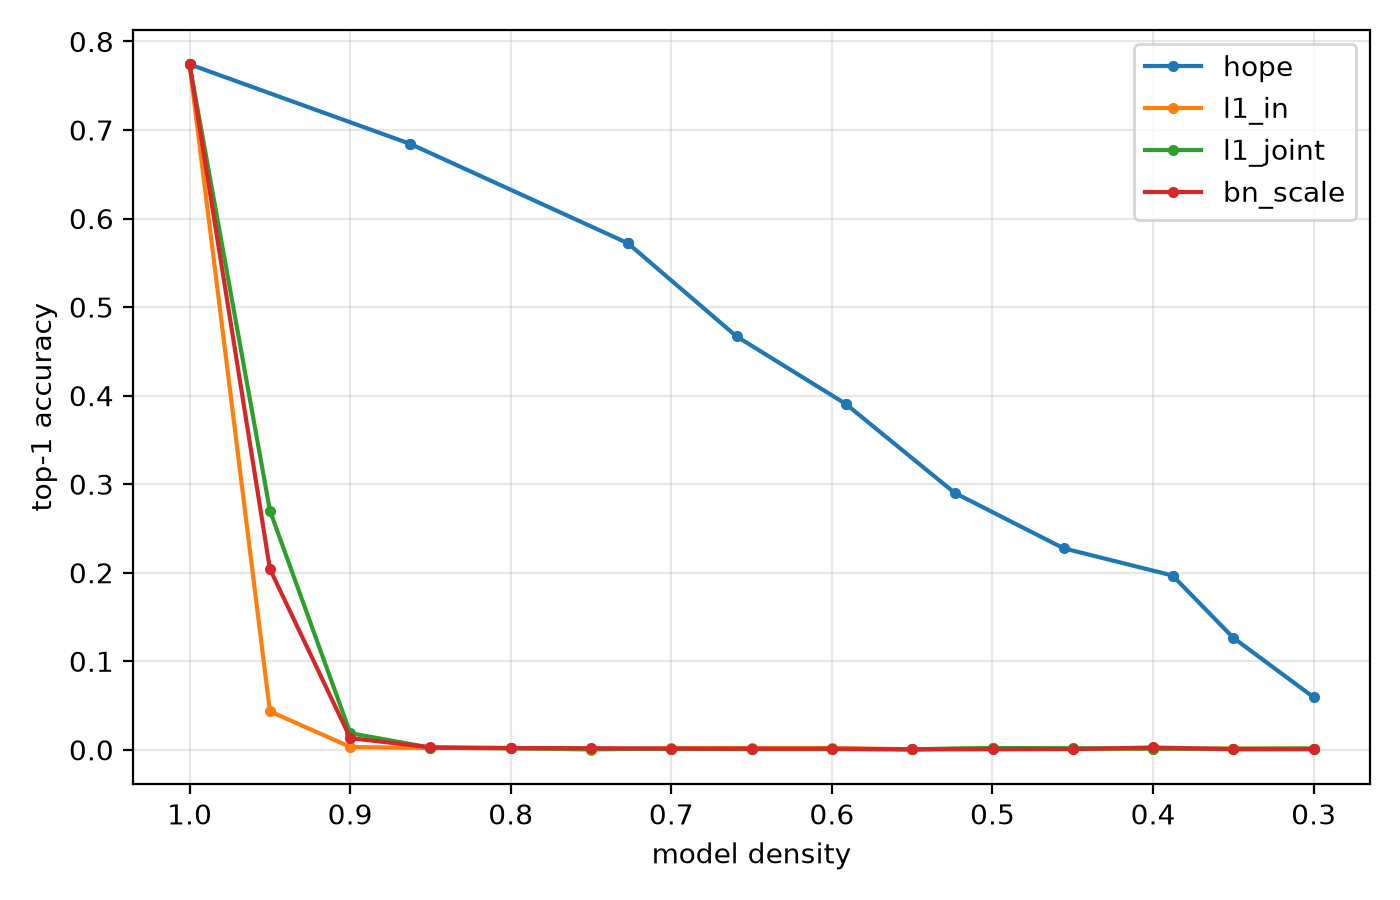
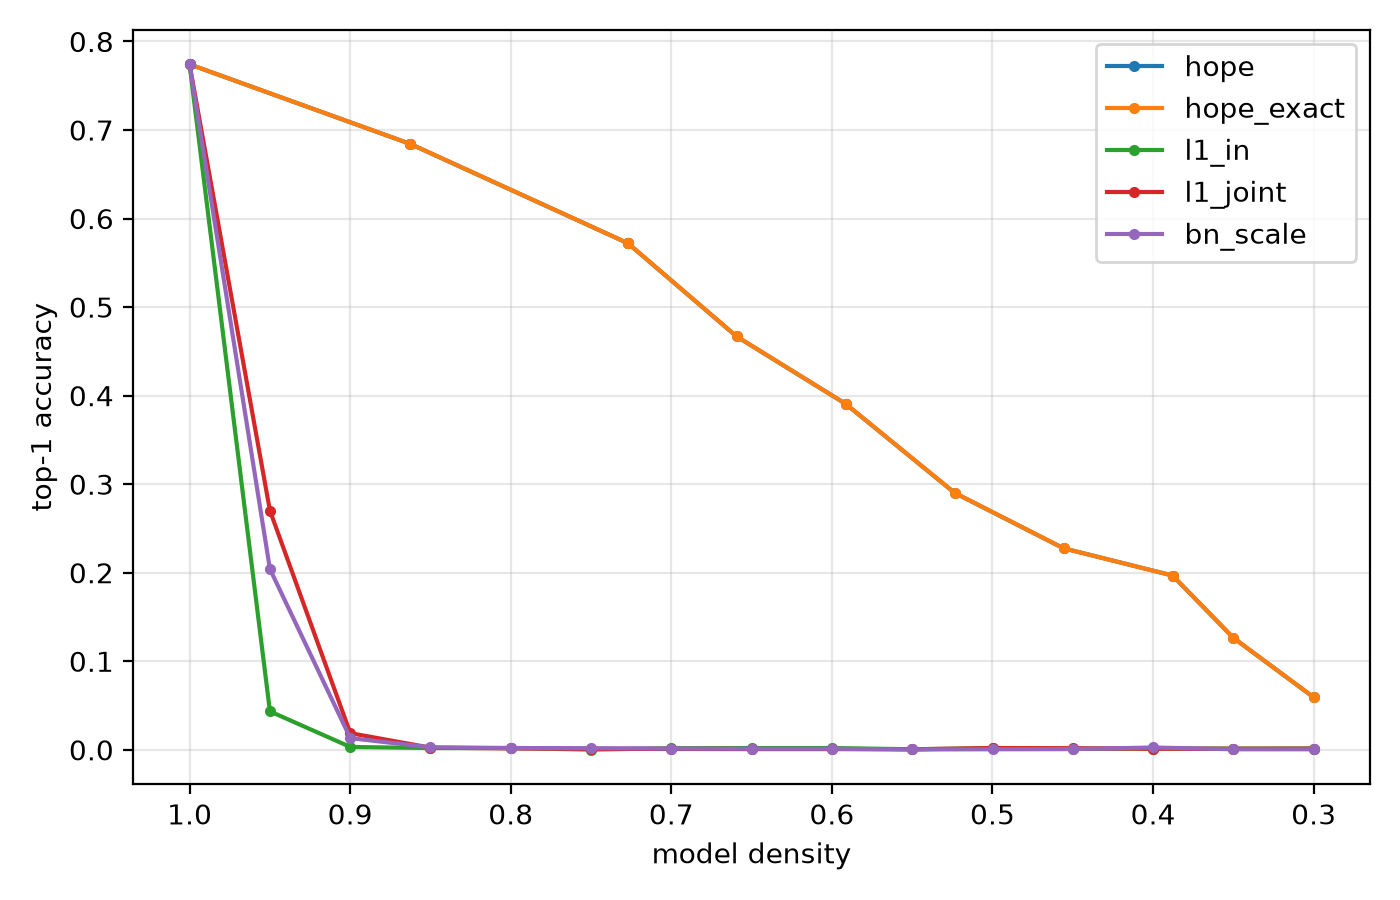
vectorize exact kernel with owens t

diff --git a/hope/kernels.py b/hope/kernels.py
@@ -1,7 +1,7 @@
 """Closed-form ReLU kernels under the Gaussian surrogate. Paper App E."""
 
 import numpy as np
-from scipy.special import ndtr
+from scipy.special import ndtr, owens_t
 from scipy.stats import multivariate_normal
 
 TINY = 1e-12
@@ -106,6 +106,60 @@ def cross_kernel_exact(gamma_i, beta_i, gamma_j, beta_j, rho_hat):
     cdf2 = multivariate_normal.cdf([ci, cj], mean=[0.0, 0.0], cov=[[1.0, r], [r, 1.0]])
     inner = (ci * cj + r) * cdf2 + ci * _phi(cj) * ndtr(cij) + cj * _phi(ci) * ndtr(cji) + s2 * phi2
     return gi * gj * inner
+
+
+def bvn_cdf(h, k, rho):
+    """Standard bivariate normal P(X <= h, Y <= k) via Owen's T, vectorized."""
+    h, k, rho = np.broadcast_arrays(
+        np.asarray(h, dtype=np.float64), np.asarray(k, dtype=np.float64), np.asarray(rho, dtype=np.float64)
+    )
+    h = np.where(np.abs(h) < 1e-9, 1e-9, h)
+    k = np.where(np.abs(k) < 1e-9, 1e-9, k)
+    rho = np.clip(rho, -1.0 + 1e-12, 1.0 - 1e-12)
+    s = np.sqrt(1.0 - rho * rho)
+    a_h = (k - rho * h) / (h * s)
+    a_k = (h - rho * k) / (k * s)
+    beta = np.where(h * k < 0, 0.5, 0.0)
+    return 0.5 * (ndtr(h) + ndtr(k)) - owens_t(h, a_h) - owens_t(k, a_k) - beta
+
+
+def cross_kernel_exact_batch(gamma_i, beta_i, gamma_j, beta_j, rho_hat):
+    """Vectorized exact biased cross-kernel, eq (83), with degenerate and dead limits."""
+    gi, gj, bi, bj, r = np.broadcast_arrays(
+        np.abs(np.asarray(gamma_i, dtype=np.float64)),
+        np.abs(np.asarray(gamma_j, dtype=np.float64)),
+        np.asarray(beta_i, dtype=np.float64),
+        np.asarray(beta_j, dtype=np.float64),
+        np.clip(np.asarray(rho_hat, dtype=np.float64), -1.0, 1.0),
+    )
+    gis = np.maximum(gi, TINY)
+    gjs = np.maximum(gj, TINY)
+    ci, cj = bi / gis, bj / gjs
+
+    rm = np.clip(r, -DEGENERATE_RHO, DEGENERATE_RHO)
+    s2 = 1.0 - rm * rm
+    s = np.sqrt(s2)
+    cij = (ci - rm * cj) / s
+    cji = (cj - rm * ci) / s
+    phi2 = np.exp(-(ci * ci - 2.0 * rm * ci * cj + cj * cj) / (2.0 * s2)) / (2.0 * np.pi * s)
+    main = gi * gj * (
+        (ci * cj + rm) * bvn_cdf(ci, cj, rm)
+        + ci * _phi(cj) * ndtr(cij)
+        + cj * _phi(ci) * ndtr(cji)
+        + s2 * phi2
+    )
+
+    m = np.maximum(-ci, -cj)
+    pos = gi * gj * (ndtr(-m) + m * _phi(m)) + (gi * bj + gj * bi) * _phi(m) + bi * bj * ndtr(-m)
+    lo, hi = -ci, cj
+    e0 = ndtr(hi) - ndtr(lo)
+    e1 = _phi(lo) - _phi(hi)
+    e2 = (ndtr(hi) - hi * _phi(hi)) - (ndtr(lo) - lo * _phi(lo))
+    neg = np.where(hi > lo, -gi * gj * e2 + (gi * bj - gj * bi) * e1 + bi * bj * e0, 0.0)
+
+    out = np.where(r >= DEGENERATE_RHO, pos, np.where(r <= -DEGENERATE_RHO, neg, main))
+    dead = (gi <= TINY) | (gj <= TINY)
+    return np.where(dead, relu_mean(gi, bi) * relu_mean(gj, bj), out)
 
 
 def cross_kernel(gamma_i, beta_i, gamma_j, beta_j, rho_hat, k_ii=None, k_jj=None, mode="zero_bias"):

diff --git a/tests/test_kernels.py b/tests/test_kernels.py
@@ -4,7 +4,9 @@ import numpy as np
 import pytest
 
 from hope.kernels import (
+    bvn_cdf,
     cross_kernel_exact,
+    cross_kernel_exact_batch,
     cross_kernel_zero_bias,
     pairwise_warped_correlation,
     relu_interaction,
@@ -133,6 +135,34 @@ class TestB:
         assert np.all(np.diff(rho_hat[order]) > 0)
         assert warped_correlation(1.0, 2.0, 3.0, 1.0, 1.0) == 1.0
         assert warped_correlation(-1.0, 2.0, 3.0, 1.0, 1.0) == -1.0
+
+    def test_bvn_cdf_matches_scipy(self):
+        from scipy.stats import multivariate_normal
+
+        rng = np.random.default_rng(6)
+        for _ in range(300):
+            h, k = rng.uniform(-3, 3, 2)
+            rho = rng.uniform(-0.999, 0.999)
+            ref = multivariate_normal.cdf([h, k], mean=[0, 0], cov=[[1, rho], [rho, 1]])
+            assert bvn_cdf(h, k, rho) == pytest.approx(ref, abs=1e-8)
+        assert bvn_cdf(0.0, 0.0, 0.6) == pytest.approx(0.25 + np.arcsin(0.6) / (2 * np.pi))
+        assert bvn_cdf(0.0, -1.3, -0.4) == pytest.approx(
+            multivariate_normal.cdf([0, -1.3], mean=[0, 0], cov=[[1, -0.4], [-0.4, 1]]), abs=1e-8
+        )
+
+    def test_exact_batch_matches_scalar(self):
+        rng = np.random.default_rng(8)
+        gi = rng.uniform(0.2, 2.0, 500)
+        gj = rng.uniform(0.2, 2.0, 500)
+        bi = rng.uniform(-2.0, 2.0, 500)
+        bj = rng.uniform(-2.0, 2.0, 500)
+        rho = rng.uniform(-1.0, 1.0, 500)
+        rho[:5] = [1.0, -1.0, 0.0, 1.0 - 1e-12, -1.0 + 1e-12]
+        gi[5:8] = 0.0
+        batch = cross_kernel_exact_batch(gi, bi, gj, bj, rho)
+        for idx in range(500):
+            ref = cross_kernel_exact(gi[idx], bi[idx], gj[idx], bj[idx], rho[idx])
+            assert batch[idx] == pytest.approx(ref, rel=1e-7, abs=1e-9)
 
     def test_dead_neuron_limits(self):
         assert relu_mean(0.0, 0.7) == pytest.approx(0.7)

diff --git a/hope/cache.py b/hope/cache.py
@@ -5,7 +5,7 @@ import numpy as np
 from .costs import E_REM_FLOOR, j_merge, j_prune
 from .kernels import (
     TINY,
-    cross_kernel_exact,
+    cross_kernel_exact_batch,
     pairwise_warped_correlation,
     relu_interaction,
     self_kernel,
@@ -44,12 +44,7 @@ class LayerCache:
     def _cross_batch(self, gamma_u, beta_u, gamma_k, beta_k, corr, k_uu, k_kk):
         if self.kernel_mode == "zero_bias":
             return relu_interaction(corr) * np.sqrt(np.maximum(k_uu * k_kk, 0.0))
-        return np.array(
-            [
-                cross_kernel_exact(gu, bu, gk, bk, r)
-                for gu, bu, gk, bk, r in zip(gamma_u, beta_u, gamma_k, beta_k, corr)
-            ]
-        )
+        return cross_kernel_exact_batch(gamma_u, beta_u, gamma_k, beta_k, corr)
 
     def _objective_batch(self, c1, c2, ii, jj, o11, o12, o22):
         surr = self.surrogate

diff --git a/scripts/run_compress.py b/scripts/run_compress.py
@@ -129,12 +129,13 @@ def main():
 
     rows = []
     encode_time = 0.0
+    label = args.method if args.kernel == "zero_bias" else f"{args.method}_{args.kernel}"
 
     def record():
         acc = evaluate(model, loader, device) if loader else float("nan")
         rows.append(
             {
-                "method": args.method,
+                "method": label,
                 "density": round(enc.density, 6),
                 "top1": acc,
                 "params": n_params(model),

diff --git a/README.md b/README.md
@@ -91,6 +91,8 @@ Numbers from this implementation, torchvision `IMAGENET1K_V1` weights unless not
 
 **Lemma C.3 audit** on the real sweep: merges are rare on these weights (1 of 686 actions to density 0.3); the executed merge held the capacity bound at all 20 path steps, minimum margin 0.013.
 
+**Exact vs zero-bias kernels.** `--kernel exact` evaluates the full biased cross-kernel (eq 83) for every pair, vectorized through Owen's T, at the same 9 second encode cost. On this checkpoint it produces an identical action sequence and identical accuracy at every density: prune and evict costs use only the self-kernel, which is exact in both modes, and the one borderline merge selected under zero-bias (rho 0.14) is repriced out under exact kernels. Kernel mode is not a factor for trained torchvision weights; it may matter for models with genuinely duplicated features.
+
 **Zero-bias cross-kernel validity.** The paper approximates the cross-kernel by dropping biases (eq 5). Worst error against the exact biased kernel (eq 83), normalized by sqrt(Kii*Kjj):
 
 | beta/gamma | 0.0 | 0.1 | 0.25 | 0.45 | 0.75 | 1.0 | 1.5 |
